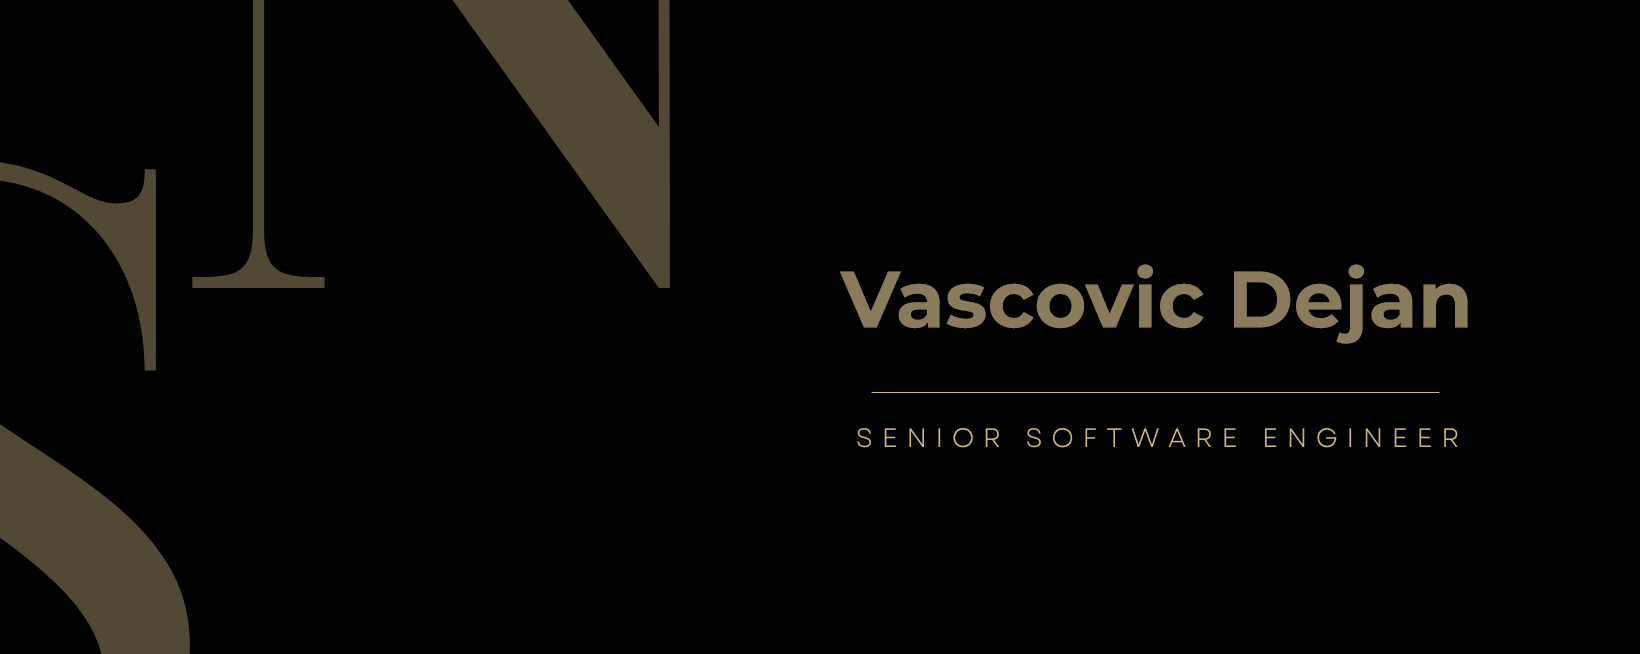
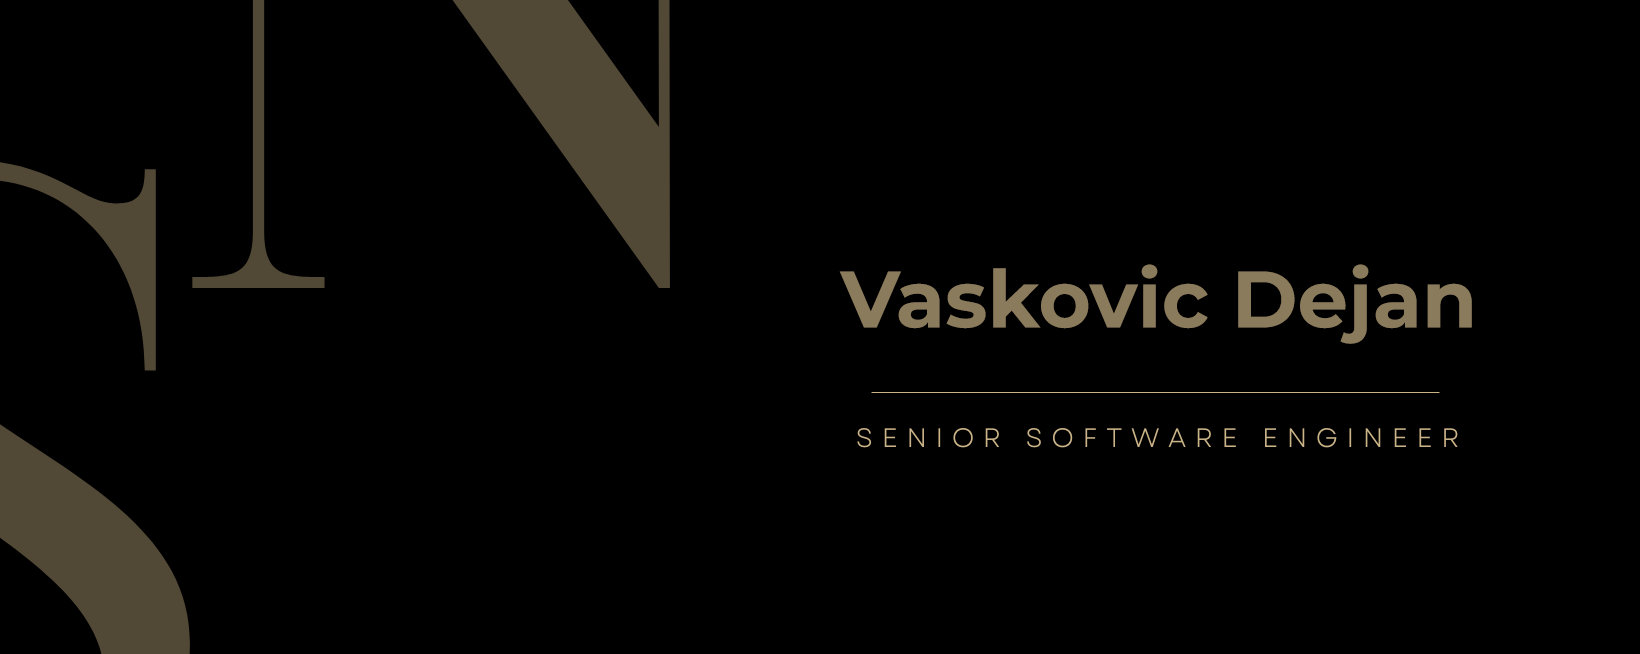
edit image and edit content

Changed region(s): [[0.5909, 0.3976, 0.9018, 0.5199]]

diff --git a/README.md b/README.md
@@ -1,16 +1,20 @@
-### Hi there 👋
+![logo](introduce.png)
 
-<!--
-**vaskovicdejan/vaskovicdejan** is a ✨ _special_ ✨ repository because its `README.md` (this file) appears on your GitHub profile.
+<h1 align="center">
+  <img src="https://media.giphy.com/media/hvRJCLFzcasrR4ia7z/giphy.gif" width="32">
+    Vaskovic Dejan
+  <img src="https://media.giphy.com/media/hvRJCLFzcasrR4ia7z/giphy.gif" width="32">
+</h1>
 
-Here are some ideas to get you started:
+<img align="left" src="https://user-images.githubusercontent.com/65187002/144930161-2f783401-8d27-4fdf-a2f7-cc0ba32f1f1f.gif" width="15%" style="display:inline;">
+<img align="right" src="https://user-images.githubusercontent.com/65187002/144930161-2f783401-8d27-4fdf-a2f7-cc0ba32f1f1f.gif" width="15%" style="display:inline;">
 
-- 🔭 I’m currently working on ...
-- 🌱 I’m currently learning ...
-- 👯 I’m looking to collaborate on ...
-- 🤔 I’m looking for help with ...
-- 💬 Ask me about ...
-- 📫 How to reach me: ...
-- 😄 Pronouns: ...
-- ⚡ Fun fact: ...
--->
+<h3 align="center">Welcome to my Profile!</h3>
+<p align="center">
+  As a Senior Full Stack Engineer, I bring a wealth of expertise in both Frontend and Backend Development.<br>
+  With a solid foundation in Python and a keen eye for detail, I focus on creating innovative solutions that seamlessly integrate powerful server-side logic with user interfaces.<br>
+  My passion for development is unwavering and drives me to continually pursue new technologies to push boundaries. <br>
+  I am committed to delivering excellence and have passion and relentless pursuit of perfection in every project.
+</p>
+
+<img src="https://i.imgur.com/dBaSKWF.gif" height="20" width="100%">
